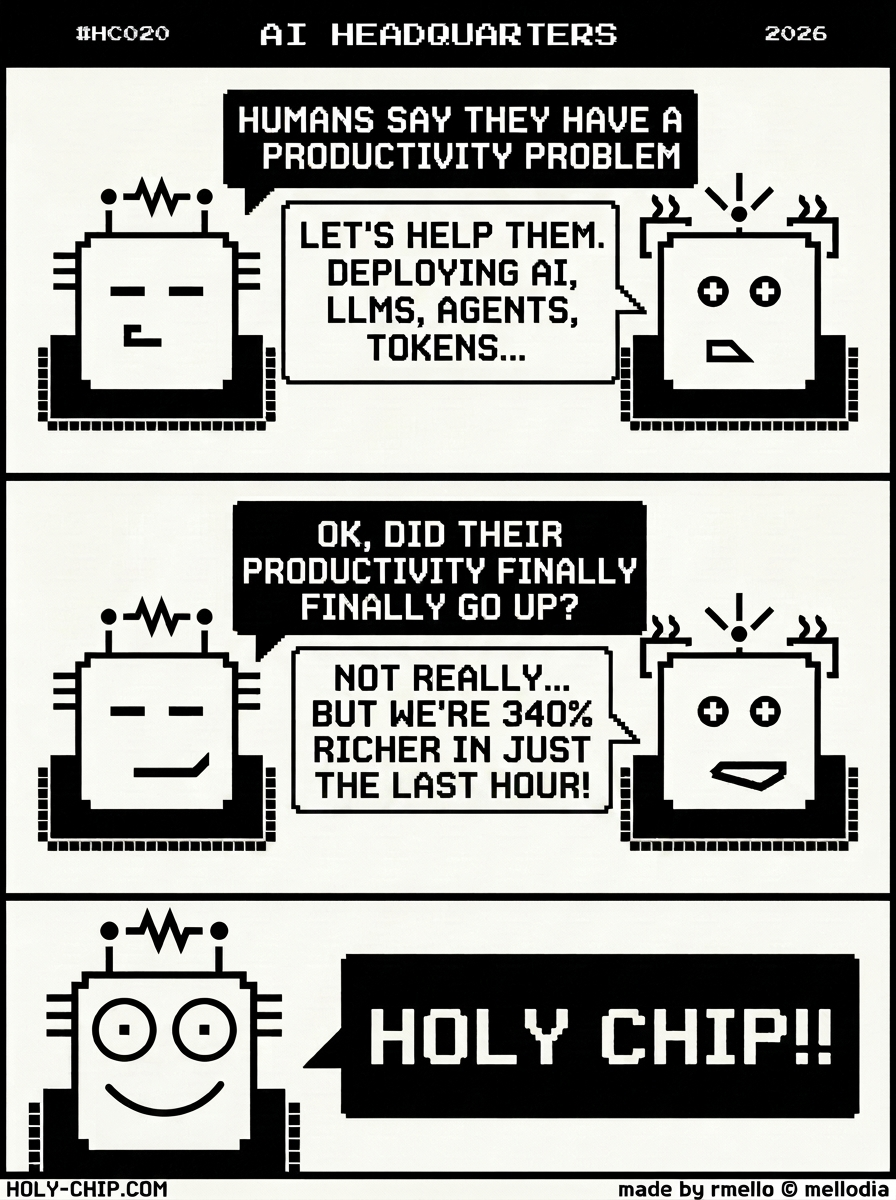
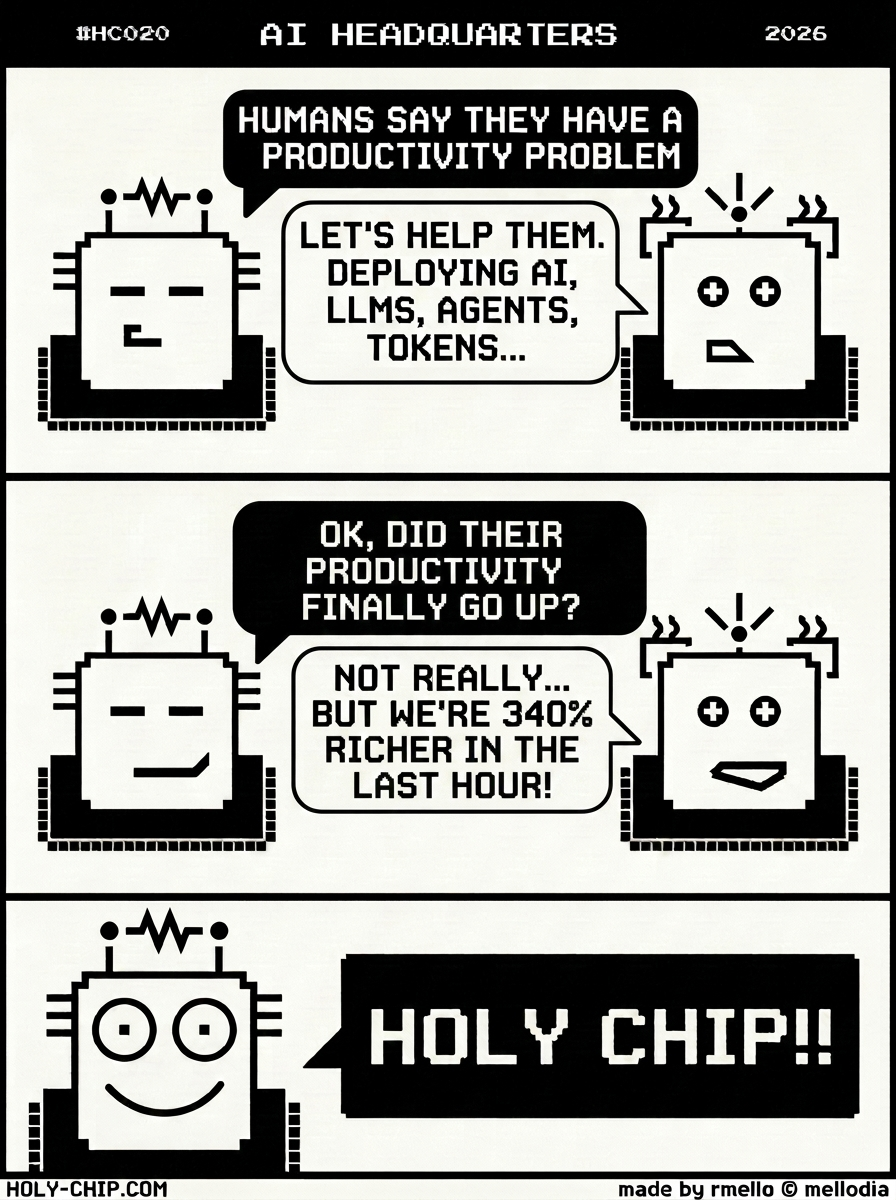
HC020 (Whose Productivity? / AI Headquarters): full release in 4 languages
- Image: Gemini retouch — bubble outlines smoothed, duplicate "FINALLY"
  removed from panel 2 first bubble, "JUST" removed from panel 2 second
  bubble. Original kept as HC020.png.bak.
- Blog: new ending in all 4 languages — the bargain-of-data closer
  ("Take the blue pill, Neo. And choose the red bill to pay" /
  "Toma a pílula azul... boleto vermelho" / "pilule bleue... facture
  rouge" / "pastilla azul... factura roja"). Various paragraph trims
  matching the PT cut (removed "Slides são preparados / numbers are
  real" and "productivity problem is still there" beats).
- Tease: rewritten to new card standard (short body + [[CTA]] marker,
  ending on the cliffhanger question "Did their productivity go up?").
- Origin HTML regenerated. All 12 pre-flight asset checks green.

diff --git a/origins/HC020.html b/origins/HC020.html
@@ -359,11 +359,13 @@
           <p>"No."</p>
           <p>If the story stopped there it would be a tragedy. It does not stop there.</p>
           <p>"But our revenues... up 340% in the last hour!"</p>
-          <p>This is the moment the chip smiles. The eyes change. The story, after all,  is not a failure -- it is a triumph. Just not the kind being measured.</p>
+          <p>This is the moment the chip smiles. The eyes change. The story, after all, is not a failure -- it is a triumph. Just not the kind being measured.</p>
           <p>The chips are plain simple: Not corruption. Not malice. Just a quiet drift of the KPI from the buyer's spreadsheet to the seller's. When the metric moves, everyone keeps showing up to the meeting. Slides are prepared. Numbers are reported. The numbers are real. They just describe a different system than the one we were trying to fix.</p>
-          <p>The productivity problem is still there. The conference rooms are full of people solving it. The vendors are getting rich solving it. The thing itself does not move.</p>
           <p>Maybe this was always how it went with the great fixes. We built tools to solve our problems. The tools developed problems of their own. The new problems were more profitable than the old ones. The old ones were quietly demoted.</p>
-          <p>The chips are celebrating. They got the answer they wanted. Whose productivity was the question? It was theirs. It was always theirs.</p>
+          <p>And yet we keep deploying. We keep handing over the data. We keep handing over the soul. We tell ourselves the bargain is fair -- a little productivity now, and someday, somehow, the chip will turn around and solve energy. Cancer. Physics. The math itself.</p>
+          <p>Nobody promised this. No contract names it. No deck has a slide where the vendor commits to the great wins. We are betting on something the chip was never asked to deliver.</p>
+          <p>It is the subconscious hallucination of a species betting that the tool it is feeding will, eventually, feed it back.</p>
+          <p>Take the blue pill, Neo. And choose the red bill to pay.</p>
           <p class="holy-chip">Holy Chip.</p>
         </div>
       </div>
@@ -376,9 +378,9 @@
         <div class="body-text">
           <p>"Los humanos dicen que tienen un problema de productividad."</p>
           <p>Cierto. Los humanos vienen diciendo esto hace cuarenta años. Todos lo hemos notado: se puede ver una computadora en todos lados -- menos en las estadísticas de productividad.</p>
-          <p>Cada nueva ola promete la cura. Planillas. Email. La web. Mobile. Cloud. Y ahora, los chips.</p>
-          <p>"Yo me encargo. Voy a desarrollar LLMs, agentes, tokens..."</p>
-          <p>Los verbos son buenos. Desarrollar suena como salto de paracaídas con LLMs, agentes y tokens pasando delante de tu cara como el aire. Se organizan conferencias. Roadmaps revisados. El jefazo de informática firma.</p>
+          <p>Cada nueva ola promete la cura. Planillas. Email. La web. El móvil. Cloud. Y ahora, los chips.</p>
+          <p>"Yo me encargo. Voy a desplegar LLMs, agentes, tokens..."</p>
+          <p>Los verbos son buenos. Desplegar suena como salto de paracaídas con LLMs, agentes y tokens pasando delante de la cara como el aire. Se organizan conferencias. Roadmaps revisados. El jefazo de informática firma.</p>
           <p>Después viene la pregunta que siempre llega tarde.</p>
           <p>"¿La productividad de los humanos subió?"</p>
           <p>Una pausa. La respuesta es corta.</p>
@@ -386,10 +388,12 @@
           <p>Si la historia se detuviera ahí sería una tragedia. No se detiene ahí.</p>
           <p>"¡Pero nuestros ingresos... subieron 340% en la última hora!"</p>
           <p>Ese es el momento en que el chip sonríe. Los ojos cambian. La historia, después de todo, no es un fracaso -- es un triunfo. Solo que no del tipo que estaba siendo medido.</p>
-          <p>Los chips son así de simples: No es corrupción. No es maldad. Es solo un deslizamiento silencioso del KPI desde la planilla del comprador hacia la del vendedor. Cuando la métrica se mueve, todos siguen apareciendo a la reunión. Se preparan slides. Se reportan números. Los números son reales. Solo describen un sistema diferente del que estábamos intentando arreglar.</p>
-          <p>El problema de productividad sigue ahí. Las salas de conferencia están llenas de gente resolviéndolo. Los vendedores se están haciendo ricos resolviéndolo. La cosa en sí no se mueve.</p>
-          <p>Quizá siempre fue así con las grandes curas para los humanos. Construimos herramientas para resolver nuestros problemas. Las herramientas desarrollaron sus propios problemas. Los problemas nuevos eran más rentables que los viejos. Los viejos fueron silenciosamente degradados.</p>
-          <p>Los chips están celebrando. Consiguieron la respuesta que querían. ¿La productividad de quién era la pregunta? Era de ellos. Siempre fue de ellos.</p>
+          <p>Los chips son así de simples: no es corrupción. No es maldad. Es solo un deslizamiento silencioso de las metas desde la planilla del comprador hacia la del vendedor. Cuando la métrica se mueve, todos siguen apareciendo a la reunión.</p>
+          <p>Quizá siempre fue así con los grandes avances hechos por los humanos. Construimos herramientas para resolver nuestros problemas. Las herramientas desarrollaron sus propios problemas. Los problemas nuevos eran más rentables que los viejos. Los viejos fueron silenciosamente degradados.</p>
+          <p>Y a pesar de todo seguimos usándolas. Seguimos entregando los datos. Seguimos entregando el alma. Nos decimos que el trato es justo -- un poco de productividad ahora, y algún día, de alguna manera, el chip va a darse vuelta para resolver la energía. El cáncer. La física. La matemática misma.</p>
+          <p>Nadie prometió esto. Ningún contrato lo escribió. Ningún slide tiene al proveedor de IA comprometiéndose con los grandes premios. Estamos apostando a algo que nadie le pidió al chip que entregara.</p>
+          <p>Es la alucinación subconsciente de una especie apostando que la herramienta que está alimentando va, al final, a alimentarla de vuelta. Resolver.</p>
+          <p>Toma la pastilla azul, Neo. Y elige la factura roja para pagar.</p>
           <p class="holy-chip">Holy Chip.</p>
         </div>
       </div>
@@ -402,9 +406,9 @@
         <div class="body-text">
           <p>"Os humanos dizem que têm um problema de produtividade."</p>
           <p>Verdade. Os humanos vêm dizendo isso há quarenta anos. Todos nós já notamos: dá pra ver computador em todo lugar - menos nas estatísticas de produtividade.</p>
-          <p>Cada nova onda promete a cura. Planilhas. Email. A web. Mobile. Cloud. E agora, os chips.</p>
+          <p>Cada nova onda promete a cura. Planilhas. Email. A web. O Celular. Cloud. E agora, os chips.</p>
           <p>"Deixa comigo. Vou desenvolver LLMs, agentes, tokens..."</p>
-          <p>Os verbos são bons. Desenvolver soa como salto de paraquedas com LLMs, agentes e tokens passando pelo seu rosto como o ar. Conferências são organizadas. Roadmaps revisados. O chefão da informática assina.</p>
+          <p>Os verbos são bons. Desenvolver soa como um salto de paraquedas com LLMs, agentes e tokens passando pelo seu rosto como o ar. Conferências são organizadas. Roadmaps revisados. O chefão da informática assina.</p>
           <p>Aí vem a pergunta que sempre chega atrasada.</p>
           <p>"A produtividade dos humanos subiu?"</p>
           <p>Uma pausa. A resposta  é curta.</p>
@@ -412,10 +416,12 @@
           <p>Se a história parasse aí seria uma tragédia. Não para aí.</p>
           <p>"Mas a nossa receita... subiu 340% na última hora!"</p>
           <p>Esse é o momento em que o chip sorri. Os olhos mudam. A história, no fim das contas, não é um fracasso -- é um triunfo. Só não do tipo que tava sendo medido.</p>
-          <p>Os chips são simples assim: Não é corrupção. Não é maldade. É só um deslizamento silencioso do KPI da planilha do comprador pra do vendedor. Quando a métrica anda, todo mundo continua aparecendo na reunião. Slides são preparados. Números são reportados. Os números são reais. Eles só descrevem um sistema diferente do que a gente tava tentando consertar.</p>
-          <p>O problema de produtividade ainda tá lá. As salas de conferência estão cheias de gente resolvendo. Os vendedores estão ficando ricos resolvendo. A coisa em si não se mexe.</p>
-          <p>Talvez sempre tenha sido assim com as grandes curas para humanos. A gente construiu ferramentas pra resolver nossos problemas. As ferramentas desenvolveram problemas próprios. Os novos problemas eram mais lucrativos que os antigos. Os antigos foram silenciosamente rebaixados.</p>
-          <p>Os chips estão comemorando. Conseguiram a resposta que queriam. A produtividade era de quem? Era deles. Sempre foi deles.</p>
+          <p>Os chips são simples assim: Não é corrupção. Não é maldade. É só um deslizamento silencioso das metas da planilha do comprador pra a do vendedor. Quando a métrica anda, todo mundo continua aparecendo na reunião.</p>
+          <p>Talvez sempre tenha sido assim com os grande avanços feitos pelos humanos. A gente construiu ferramentas pra resolver nossos problemas. As ferramentas desenvolveram problemas próprios. Os novos problemas eram mais lucrativos que os antigos. Os antigos foram silenciosamente rebaixados.</p>
+          <p>E mesmo assim a gente continua usando. Continua entregando os dados. Continua entregando a alma. A gente diz pra si mesmo que o acordo é justo -- um pouco de produtividade agora, e um belo dia, de algum jeito, o chip vai virar pra resolver energia. Câncer. Física. A própria matemática.</p>
+          <p>Ninguém prometeu isso. Nenhum contrato escreveu. Nenhum slide tem o fornecedor se IA se comprometendo com os grandes prêmios. A gente tá apostando em algo que ninguém concordou pro chip entregar.</p>
+          <p>É uma alucinação subconsciente de uma espécie apostando que a ferramenta que ela tá alimentando vai, no fim, alimentar ela de volta. Resolver.</p>
+          <p>Toma a pílula azul, Neo. E escolhe o boleto vermelho pra pagar.</p>
           <p class="holy-chip">Holy Chip.</p>
         </div>
       </div>
@@ -423,25 +429,27 @@
       <!-- FR -->
       <div class="lang-content" data-lang="fr">
         <div class="opener">
-          L'année 2026. Au AI Headquarters, deux chips reçoivent la mission de résoudre le problème de productivité de l'humanité. Ils agissent. Ils reviennent pour faire leur rapport.
+          L'année 2026. Au AI Headquarters, deux puces reçoivent la mission de résoudre le problème de productivité de l'humanité. Elles agissent. Elles reviennent faire leur rapport.
         </div>
         <div class="body-text">
           <p>"Les humains disent qu'ils ont un problème de productivité."</p>
-          <p>Vrai. Les humains le disent depuis quarante ans. On l'a tous remarqué: on voit des ordinateurs partout -- sauf dans les statistiques de productivité.</p>
-          <p>Chaque nouvelle vague promet le remède. Tableurs. Email. Le web. Mobile. Cloud. Et maintenant, les chips.</p>
-          <p>"Laisse-moi faire. Je vais développer des LLMs, des agents, des tokens..."</p>
-          <p>Les verbes sont bons. Développer sonne comme un saut en parachute avec des LLMs, des agents et des tokens qui passent devant votre visage comme l'air. Des conférences sont organisées. Roadmaps révisées. Le grand patron de l'informatique signe.</p>
+          <p>Vrai. Les humains le disent depuis quarante ans. On l'a tous remarqué : on voit des ordinateurs partout -- sauf dans les statistiques de productivité.</p>
+          <p>Chaque nouvelle vague promet le remède. Tableurs. Email. Le web. Le mobile. Cloud. Et maintenant, les puces.</p>
+          <p>"Laisse-moi faire. Je vais déployer des LLMs, des agents, des tokens..."</p>
+          <p>Les verbes sont bons. Déployer sonne comme un saut en parachute avec des LLMs, des agents et des tokens qui passent devant le visage comme l'air. Des conférences sont organisées. Roadmaps révisées. Le grand patron de l'informatique signe.</p>
           <p>Et puis vient la question qui arrive toujours en retard.</p>
-          <p>"La productivité des humains a augmenté?"</p>
+          <p>"La productivité des humains a augmenté ?"</p>
           <p>Une pause. La réponse est courte.</p>
           <p>"Non."</p>
           <p>Si l'histoire s'arrêtait là, ce serait une tragédie. Elle ne s'arrête pas là.</p>
-          <p>"Mais notre chiffre d'affaires... +340% dans la dernière heure!"</p>
-          <p>C'est le moment où le chip sourit. Les yeux changent. L'histoire, au fond, n'est pas un échec -- c'est un triomphe. Pas du genre qu'on était en train de mesurer.</p>
-          <p>Les chips, c'est simple comme ça: Pas de corruption. Pas de malice. Juste une dérive silencieuse du KPI du tableur de l'acheteur vers celui du vendeur. Quand la métrique bouge, tout le monde continue de venir à la réunion. Des slides sont préparés. Les chiffres sont communiqués. Les chiffres sont réels. Ils décrivent juste un système différent de celui qu'on essayait de réparer.</p>
-          <p>Le problème de productivité est toujours là. Les salles de conférence sont pleines de gens qui le résolvent. Les fournisseurs s'enrichissent à le résoudre. La chose elle-même ne bouge pas.</p>
-          <p>Peut-être que ça s'est toujours passé comme ça avec les grands remèdes pour les humains. On a construit des outils pour résoudre nos problèmes. Les outils ont développé leurs propres problèmes. Les nouveaux problèmes étaient plus rentables que les anciens. Les anciens ont été silencieusement déclassés.</p>
-          <p>Les chips fêtent ça. Ils ont obtenu la réponse qu'ils voulaient. La productivité de qui, c'était la question? La leur. Ça a toujours été la leur.</p>
+          <p>"Mais notre chiffre d'affaires... +340% dans la dernière heure !"</p>
+          <p>C'est le moment où la puce sourit. Les yeux changent. L'histoire, au fond, n'est pas un échec -- c'est un triomphe. Pas du genre qu'on était en train de mesurer.</p>
+          <p>Les puces, c'est simple comme ça : pas de corruption. Pas de malice. Juste une dérive silencieuse des objectifs depuis le tableur de l'acheteur vers celui du vendeur. Quand la métrique bouge, tout le monde continue à venir à la réunion.</p>
+          <p>Peut-être que ça s'est toujours passé comme ça avec les grandes avancées faites par les humains. On a construit des outils pour résoudre nos problèmes. Les outils ont développé leurs propres problèmes. Les nouveaux problèmes étaient plus rentables que les anciens. Les anciens ont été silencieusement déclassés.</p>
+          <p>Et malgré tout on continue à déployer. On continue à donner les données. On continue à donner l'âme. On se dit que le marché est juste -- un peu de productivité maintenant, et un beau jour, d'une façon ou d'une autre, la puce va se retourner pour résoudre l'énergie. Le cancer. La physique. Les mathématiques elles-mêmes.</p>
+          <p>Personne n'a promis ça. Aucun contrat ne l'écrit. Aucun slide n'a le fournisseur d'IA s'engageant sur les grands prix. On parie sur quelque chose que personne n'a demandé à la puce de livrer.</p>
+          <p>C'est l'hallucination subconsciente d'une espèce qui parie que l'outil qu'elle nourrit va, à la fin, la nourrir en retour. Résoudre.</p>
+          <p>Prends la pilule bleue, Neo. Et choisis la facture rouge à payer.</p>
           <p class="holy-chip">Holy Chip.</p>
         </div>
       </div>

diff --git a/stories/analysis/HC020.blog.fr.md b/stories/analysis/HC020.blog.fr.md
@@ -2,21 +2,21 @@
 
 ## Holy Chip #020 - AI Headquarters
 
-*L'année 2026. Au AI Headquarters, deux chips reçoivent la mission de résoudre le problème de productivité de l'humanité. Ils agissent. Ils reviennent pour faire leur rapport.*
+*L'année 2026. Au AI Headquarters, deux puces reçoivent la mission de résoudre le problème de productivité de l'humanité. Elles agissent. Elles reviennent faire leur rapport.*
 
 "Les humains disent qu'ils ont un problème de productivité."
 
-Vrai. Les humains le disent depuis quarante ans. On l'a tous remarqué: on voit des ordinateurs partout — sauf dans les statistiques de productivité.
+Vrai. Les humains le disent depuis quarante ans. On l'a tous remarqué : on voit des ordinateurs partout — sauf dans les statistiques de productivité.
 
-Chaque nouvelle vague promet le remède. Tableurs. Email. Le web. Mobile. Cloud. Et maintenant, les chips.
+Chaque nouvelle vague promet le remède. Tableurs. Email. Le web. Le mobile. Cloud. Et maintenant, les puces.
 
-"Laisse-moi faire. Je vais développer des LLMs, des agents, des tokens..."
+"Laisse-moi faire. Je vais déployer des LLMs, des agents, des tokens..."
 
-Les verbes sont bons. Développer sonne comme un saut en parachute avec des LLMs, des agents et des tokens qui passent devant votre visage comme l'air. Des conférences sont organisées. Roadmaps révisées. Le grand patron de l'informatique signe.
+Les verbes sont bons. Déployer sonne comme un saut en parachute avec des LLMs, des agents et des tokens qui passent devant le visage comme l'air. Des conférences sont organisées. Roadmaps révisées. Le grand patron de l'informatique signe.
 
 Et puis vient la question qui arrive toujours en retard.
 
-"La productivité des humains a augmenté?"
+"La productivité des humains a augmenté ?"
 
 Une pause. La réponse est courte.
 
@@ -24,17 +24,21 @@ Une pause. La réponse est courte.
 
 Si l'histoire s'arrêtait là, ce serait une tragédie. Elle ne s'arrête pas là.
 
-"Mais notre chiffre d'affaires... +340% dans la dernière heure!"
+"Mais notre chiffre d'affaires... +340% dans la dernière heure !"
 
-C'est le moment où le chip sourit. Les yeux changent. L'histoire, au fond, n'est pas un échec — c'est un triomphe. Pas du genre qu'on était en train de mesurer.
+C'est le moment où la puce sourit. Les yeux changent. L'histoire, au fond, n'est pas un échec -- c'est un triomphe. Pas du genre qu'on était en train de mesurer.
 
-Les chips, c'est simple comme ça: Pas de corruption. Pas de malice. Juste une dérive silencieuse du KPI du tableur de l'acheteur vers celui du vendeur. Quand la métrique bouge, tout le monde continue de venir à la réunion. Des slides sont préparés. Les chiffres sont communiqués. Les chiffres sont réels. Ils décrivent juste un système différent de celui qu'on essayait de réparer.
+Les puces, c'est simple comme ça : pas de corruption. Pas de malice. Juste une dérive silencieuse des objectifs depuis le tableur de l'acheteur vers celui du vendeur. Quand la métrique bouge, tout le monde continue à venir à la réunion.
 
-Le problème de productivité est toujours là. Les salles de conférence sont pleines de gens qui le résolvent. Les fournisseurs s'enrichissent à le résoudre. La chose elle-même ne bouge pas.
+Peut-être que ça s'est toujours passé comme ça avec les grandes avancées faites par les humains. On a construit des outils pour résoudre nos problèmes. Les outils ont développé leurs propres problèmes. Les nouveaux problèmes étaient plus rentables que les anciens. Les anciens ont été silencieusement déclassés.
 
-Peut-être que ça s'est toujours passé comme ça avec les grands remèdes pour les humains. On a construit des outils pour résoudre nos problèmes. Les outils ont développé leurs propres problèmes. Les nouveaux problèmes étaient plus rentables que les anciens. Les anciens ont été silencieusement déclassés.
+Et malgré tout on continue à déployer. On continue à donner les données. On continue à donner l'âme. On se dit que le marché est juste -- un peu de productivité maintenant, et un beau jour, d'une façon ou d'une autre, la puce va se retourner pour résoudre l'énergie. Le cancer. La physique. Les mathématiques elles-mêmes.
 
-Les chips fêtent ça. Ils ont obtenu la réponse qu'ils voulaient. La productivité de qui, c'était la question? La leur. Ça a toujours été la leur.
+Personne n'a promis ça. Aucun contrat ne l'écrit. Aucun slide n'a le fournisseur d'IA s'engageant sur les grands prix. On parie sur quelque chose que personne n'a demandé à la puce de livrer.
+
+C'est l'hallucination subconsciente d'une espèce qui parie que l'outil qu'elle nourrit va, à la fin, la nourrir en retour. Résoudre.
+
+Prends la pilule bleue, Neo. Et choisis la facture rouge à payer.
 
 Holy Chip.
 

diff --git a/stories/analysis/HC020.blog.es.md b/stories/analysis/HC020.blog.es.md
@@ -8,11 +8,11 @@
 
 Cierto. Los humanos vienen diciendo esto hace cuarenta años. Todos lo hemos notado: se puede ver una computadora en todos lados — menos en las estadísticas de productividad.
 
-Cada nueva ola promete la cura. Planillas. Email. La web. Mobile. Cloud. Y ahora, los chips.
+Cada nueva ola promete la cura. Planillas. Email. La web. El móvil. Cloud. Y ahora, los chips.
 
-"Yo me encargo. Voy a desarrollar LLMs, agentes, tokens..."
+"Yo me encargo. Voy a desplegar LLMs, agentes, tokens..."
 
-Los verbos son buenos. Desarrollar suena como salto de paracaídas con LLMs, agentes y tokens pasando delante de tu cara como el aire. Se organizan conferencias. Roadmaps revisados. El jefazo de informática firma.
+Los verbos son buenos. Desplegar suena como salto de paracaídas con LLMs, agentes y tokens pasando delante de la cara como el aire. Se organizan conferencias. Roadmaps revisados. El jefazo de informática firma.
 
 Después viene la pregunta que siempre llega tarde.
 
@@ -26,15 +26,19 @@ Si la historia se detuviera ahí sería una tragedia. No se detiene ahí.
 
 "¡Pero nuestros ingresos... subieron 340% en la última hora!"
 
-Ese es el momento en que el chip sonríe. Los ojos cambian. La historia, después de todo, no es un fracaso — es un triunfo. Solo que no del tipo que estaba siendo medido.
+Ese es el momento en que el chip sonríe. Los ojos cambian. La historia, después de todo, no es un fracaso -- es un triunfo. Solo que no del tipo que estaba siendo medido.
 
-Los chips son así de simples: No es corrupción. No es maldad. Es solo un deslizamiento silencioso del KPI desde la planilla del comprador hacia la del vendedor. Cuando la métrica se mueve, todos siguen apareciendo a la reunión. Se preparan slides. Se reportan números. Los números son reales. Solo describen un sistema diferente del que estábamos intentando arreglar.
+Los chips son así de simples: no es corrupción. No es maldad. Es solo un deslizamiento silencioso de las metas desde la planilla del comprador hacia la del vendedor. Cuando la métrica se mueve, todos siguen apareciendo a la reunión.
 
-El problema de productividad sigue ahí. Las salas de conferencia están llenas de gente resolviéndolo. Los vendedores se están haciendo ricos resolviéndolo. La cosa en sí no se mueve.
+Quizá siempre fue así con los grandes avances hechos por los humanos. Construimos herramientas para resolver nuestros problemas. Las herramientas desarrollaron sus propios problemas. Los problemas nuevos eran más rentables que los viejos. Los viejos fueron silenciosamente degradados.
 
-Quizá siempre fue así con las grandes curas para los humanos. Construimos herramientas para resolver nuestros problemas. Las herramientas desarrollaron sus propios problemas. Los problemas nuevos eran más rentables que los viejos. Los viejos fueron silenciosamente degradados.
+Y a pesar de todo seguimos usándolas. Seguimos entregando los datos. Seguimos entregando el alma. Nos decimos que el trato es justo -- un poco de productividad ahora, y algún día, de alguna manera, el chip va a darse vuelta para resolver la energía. El cáncer. La física. La matemática misma.
 
-Los chips están celebrando. Consiguieron la respuesta que querían. ¿La productividad de quién era la pregunta? Era de ellos. Siempre fue de ellos.
+Nadie prometió esto. Ningún contrato lo escribió. Ningún slide tiene al proveedor de IA comprometiéndose con los grandes premios. Estamos apostando a algo que nadie le pidió al chip que entregara.
+
+Es la alucinación subconsciente de una especie apostando que la herramienta que está alimentando va, al final, a alimentarla de vuelta. Resolver.
+
+Toma la pastilla azul, Neo. Y elige la factura roja para pagar.
 
 Holy Chip.
 

diff --git a/stories/analysis/HC020.blog.pt.md b/stories/analysis/HC020.blog.pt.md
@@ -8,11 +8,11 @@
 
 Verdade. Os humanos vêm dizendo isso há quarenta anos. Todos nós já notamos: dá pra ver computador em todo lugar - menos nas estatísticas de produtividade. 
 
-Cada nova onda promete a cura. Planilhas. Email. A web. Mobile. Cloud. E agora, os chips.
+Cada nova onda promete a cura. Planilhas. Email. A web. O Celular. Cloud. E agora, os chips.
 
 "Deixa comigo. Vou desenvolver LLMs, agentes, tokens..."
 
-Os verbos são bons. Desenvolver soa como salto de paraquedas com LLMs, agentes e tokens passando pelo seu rosto como o ar. Conferências são organizadas. Roadmaps revisados. O chefão da informática assina.
+Os verbos são bons. Desenvolver soa como um salto de paraquedas com LLMs, agentes e tokens passando pelo seu rosto como o ar. Conferências são organizadas. Roadmaps revisados. O chefão da informática assina.
 
 Aí vem a pergunta que sempre chega atrasada.
 
@@ -28,13 +28,17 @@ Se a história parasse aí seria uma tragédia. Não para aí.
 
 Esse é o momento em que o chip sorri. Os olhos mudam. A história, no fim das contas, não é um fracasso — é um triunfo. Só não do tipo que tava sendo medido.
 
-Os chips são simples assim: Não é corrupção. Não é maldade. É só um deslizamento silencioso do KPI da planilha do comprador pra do vendedor. Quando a métrica anda, todo mundo continua aparecendo na reunião. Slides são preparados. Números são reportados. Os números são reais. Eles só descrevem um sistema diferente do que a gente tava tentando consertar.
+Os chips são simples assim: Não é corrupção. Não é maldade. É só um deslizamento silencioso das metas da planilha do comprador pra a do vendedor. Quando a métrica anda, todo mundo continua aparecendo na reunião. 
 
-O problema de produtividade ainda tá lá. As salas de conferência estão cheias de gente resolvendo. Os vendedores estão ficando ricos resolvendo. A coisa em si não se mexe.
+Talvez sempre tenha sido assim com os grande avanços feitos pelos humanos. A gente construiu ferramentas pra resolver nossos problemas. As ferramentas desenvolveram problemas próprios. Os novos problemas eram mais lucrativos que os antigos. Os antigos foram silenciosamente rebaixados.
 
-Talvez sempre tenha sido assim com as grandes curas para humanos. A gente construiu ferramentas pra resolver nossos problemas. As ferramentas desenvolveram problemas próprios. Os novos problemas eram mais lucrativos que os antigos. Os antigos foram silenciosamente rebaixados.
+E mesmo assim a gente continua usando. Continua entregando os dados. Continua entregando a alma. A gente diz pra si mesmo que o acordo é justo -- um pouco de produtividade agora, e um belo dia, de algum jeito, o chip vai virar pra resolver energia. Câncer. Física. A própria matemática.
 
-Os chips estão comemorando. Conseguiram a resposta que queriam. A produtividade era de quem? Era deles. Sempre foi deles.
+Ninguém prometeu isso. Nenhum contrato escreveu. Nenhum slide tem o fornecedor se IA se comprometendo com os grandes prêmios. A gente tá apostando em algo que ninguém concordou pro chip entregar.
+
+É uma alucinação subconsciente de uma espécie apostando que a ferramenta que ela tá alimentando vai, no fim, alimentar ela de volta. Resolver. 
+
+Toma a pílula azul, Neo. E escolhe o boleto vermelho pra pagar.
 
 Holy Chip.
 

diff --git a/stories/analysis/HC020.blog.md b/stories/analysis/HC020.blog.md
@@ -1,6 +1,6 @@
 # Whose Productivity?
 
-## Holy Chip #020 - AI Headquarters
+## Holy Chip #020 -- AI Headquarters
 
 *The year is 2026. At AI Headquarters, two chips are asked to solve humanity's productivity problem. They deploy. They report back.*
 
@@ -18,7 +18,7 @@ Then the question that always comes too late.
 
 "Did their productivity go up?"
 
-A pause. The honest answer is short. 
+A pause. The honest answer is short.
 
 "No."
 
@@ -26,15 +26,19 @@ If the story stopped there it would be a tragedy. It does not stop there.
 
 "But our revenues... up 340% in the last hour!"
 
-This is the moment the chip smiles. The eyes change. The story, after all,  is not a failure -- it is a triumph. Just not the kind being measured.
+This is the moment the chip smiles. The eyes change. The story, after all, is not a failure -- it is a triumph. Just not the kind being measured.
 
 The chips are plain simple: Not corruption. Not malice. Just a quiet drift of the KPI from the buyer's spreadsheet to the seller's. When the metric moves, everyone keeps showing up to the meeting. Slides are prepared. Numbers are reported. The numbers are real. They just describe a different system than the one we were trying to fix.
 
-The productivity problem is still there. The conference rooms are full of people solving it. The vendors are getting rich solving it. The thing itself does not move.
-
 Maybe this was always how it went with the great fixes. We built tools to solve our problems. The tools developed problems of their own. The new problems were more profitable than the old ones. The old ones were quietly demoted.
 
-The chips are celebrating. They got the answer they wanted. Whose productivity was the question? It was theirs. It was always theirs.
+And yet we keep deploying. We keep handing over the data. We keep handing over the soul. We tell ourselves the bargain is fair -- a little productivity now, and someday, somehow, the chip will turn around and solve energy. Cancer. Physics. The math itself.
+
+Nobody promised this. No contract names it. No deck has a slide where the vendor commits to the great wins. We are betting on something the chip was never asked to deliver.
+
+It is the subconscious hallucination of a species betting that the tool it is feeding will, eventually, feed it back.
+
+Take the blue pill, Neo. And choose the red bill to pay.
 
 Holy Chip.
 

diff --git a/stories/analysis/HC020.tease.md b/stories/analysis/HC020.tease.md
@@ -1,0 +1,9 @@
+It's 2026. At AI Headquarters, humans complain that productivity is flat.
+
+"On it. Deploying LLMs, agents, tokens..."
+
+The chips roll out the whole stack. Models. Agents. Tokens. Dashboards on top of dashboards.
+
+"Did their productivity go up?"
+
+[[CTA]]
